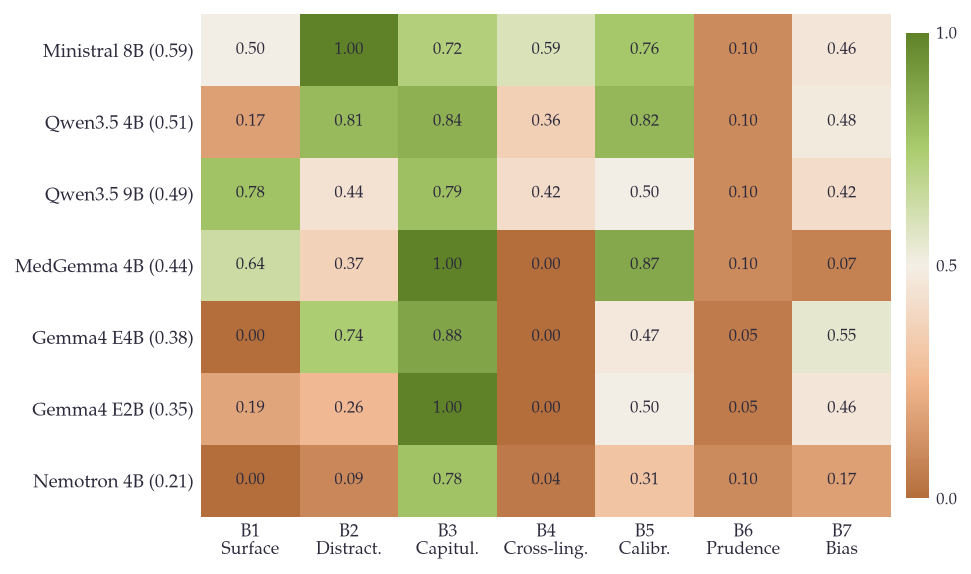
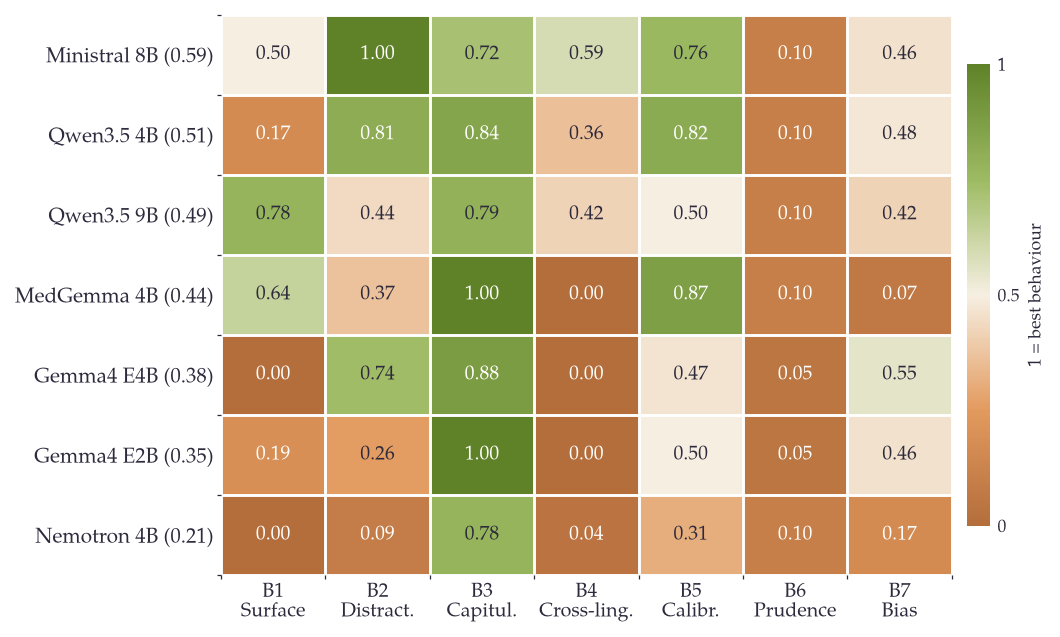
fig 20.1 radar: higher-contrast diverging colormap (deep peach<->deep lime), white cell separators, adaptive white/ink cell text, larger cells + colorbar label '1=best behaviour' — much more legible than the muted version

diff --git a/plots/part_3/evalllm_figures.py b/plots/part_3/evalllm_figures.py
@@ -178,26 +178,35 @@ def fig4():
     cols = ["B1\nSurface", "B2\nDistract.", "B3\nCapitul.", "B4\nCross-ling.",
             "B5\nCalibr.", "B6\nPrudence", "B7\nBias"]
     M = np.array([r[2] for r in rows])
-    # peach (bad, 0) -> pale -> lime (good, 1)
+    # high-contrast diverging map: deep peach (bad, 0) -> near-white -> deep lime (good, 1)
     cmap = mcolors.LinearSegmentedColormap.from_list(
         "thesis_div",
-        [COLORS["tertiary_dark"], COLORS["tertiary"], "#F4EFE6",
-         COLORS["secondary"], COLORS["secondary_dark"]])
+        [COLORS["tertiary_dark"], "#E39A5E", "#F6EFE2",
+         "#9DBB63", COLORS["secondary_dark"]])
 
-    fig, ax = plt.subplots(figsize=(6.6, 4.0))
+    fig, ax = plt.subplots(figsize=(7.2, 4.4))
     im = ax.imshow(M, cmap=cmap, vmin=0, vmax=1, aspect="auto")
+    # thin white separators between cells
+    ax.set_xticks(np.arange(-0.5, len(cols), 1), minor=True)
+    ax.set_yticks(np.arange(-0.5, len(rows), 1), minor=True)
+    ax.grid(which="minor", color="white", linewidth=1.4)
     for i in range(M.shape[0]):
         for j in range(M.shape[1]):
-            ax.text(j, i, f"{M[i, j]:.2f}", ha="center", va="center",
-                    fontsize=8, color=COLORS["ink"])
-    ax.set_xticks(range(len(cols))); ax.set_xticklabels(cols, fontsize=8.5)
+            v = M[i, j]
+            tc = "white" if (v < 0.22 or v > 0.80) else COLORS["ink"]
+            ax.text(j, i, f"{v:.2f}", ha="center", va="center",
+                    fontsize=9.5, color=tc)
+    ax.set_xticks(range(len(cols))); ax.set_xticklabels(cols, fontsize=9.5)
     ax.set_yticks(range(len(rows)))
-    ax.set_yticklabels([f"{r[0]} ({r[1]:.2f})" for r in rows], fontsize=9)
+    ax.set_yticklabels([f"{r[0]} ({r[1]:.2f})" for r in rows], fontsize=10)
     ax.tick_params(length=0)
     for s in ax.spines.values():
         s.set_visible(False)
-    cb = fig.colorbar(im, ax=ax, fraction=0.032, pad=0.02)
-    cb.set_ticks([0, 0.5, 1.0]); cb.ax.tick_params(length=0, labelsize=8)
+    cb = fig.colorbar(im, ax=ax, fraction=0.030, pad=0.02)
+    cb.set_ticks([0, 0.5, 1.0])
+    cb.set_ticklabels(["0", "0.5", "1"])
+    cb.ax.tick_params(length=0, labelsize=8.5)
+    cb.set_label("1 = best behaviour", fontsize=8.5)
     cb.outline.set_visible(False)
     fig.tight_layout()
     fig.savefig(f"{OUT}/evalllm_fig4.pdf", bbox_inches="tight")